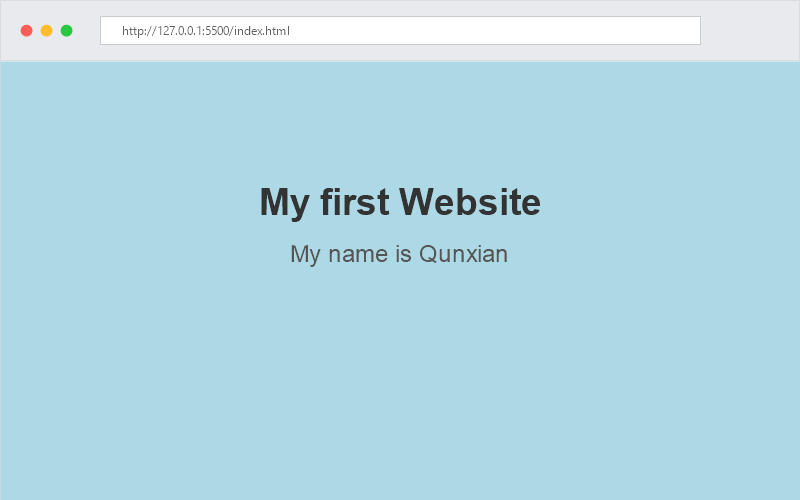
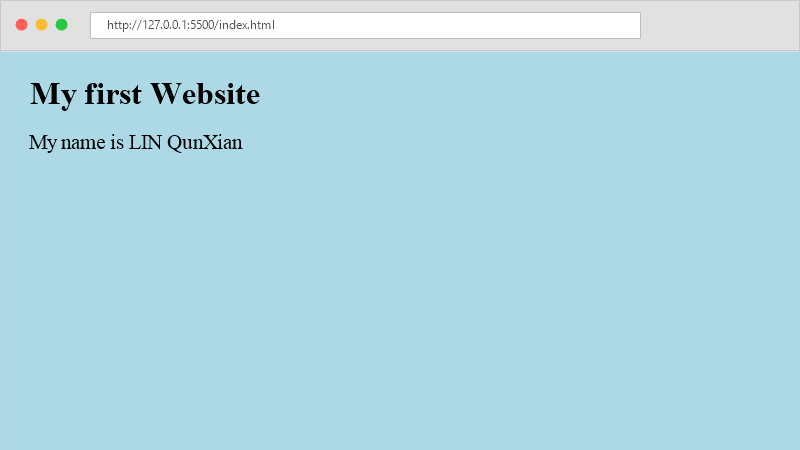
update styles and README

diff --git a/style.css b/style.css
@@ -1,16 +1,3 @@
 body {
     background-color: lightblue;
-    font-family: Arial, sans-serif;
-    text-align: center;
-    padding-top: 50px;
-}
-
-h1 {
-    color: #333333;
-    margin-bottom: 10px;
-}
-
-p {
-    color: #555555;
-    font-size: 18px;
 }

diff --git a/index.html b/index.html
@@ -8,6 +8,6 @@
 </head>
 <body>
     <h1>My first Website</h1>
-    <p>My name is Qunxian</p>
+    <p>My name is LIN QunXian</p>
 </body>
 </html>

diff --git a/README.md b/README.md
@@ -1,92 +1,45 @@
-# MyWebsite - 我的第一個個人網站
+# MyWebsite
 
-> 這是一個使用 HTML 與 CSS 建立的個人首頁專案，作為學習 Git 與 GitHub 版本控制的第一個實作成果。
+這是我在課堂上製作的第一個個人網頁，用來練習 HTML、CSS 以及 Git 和 GitHub 的版本控制。
 
----
-
-## 專案介紹 (Project Description)
-
+## 專案介紹
+說明：
 * **為什麼製作這個專案？**  
-  學習網頁前端基礎知識與 Git / GitHub 完整版本控制流程（包括檔案變更、暫存、提交、推送、版本回退以及撰寫專業的說明文件）。
-* **這個專案解決什麼問題？**  
-  提供一個結構清晰、輕量乾淨的個人首頁模板，並實踐以 GitHub 進行程式碼托管與版本管理的標準流程。
-* **主要目標：**  
-  熟悉現代軟體開發中必備的 Git 工作流，建立良好的開源專案維護習慣。
+  學習網頁製作基礎，並練習 Git 的基本操作（例如 git add, git commit, git push 等）。
+* **主要功能是什麼？**  
+  在網頁上顯示個人標題與姓名，並使用 CSS 設定背景顏色。
 
----
+## 功能
+* [x] 建立 index.html 網頁
+* [x] 顯示大標題「My first Website」
+* [x] 顯示我的名字「My name is LIN QunXian」
+* [x] 使用 style.css 設定淺藍色背景
+* [x] 使用 .gitignore 忽略不必要的檔案
 
-## 功能 (Features)
+## 使用技術
+* HTML
+* CSS
+* Git
+* GitHub
 
-* [x] **個人資訊展示**：清晰呈現網站主標題與作者名稱
-* [x] **簡約外觀樣式**：使用 CSS 設計清爽的淺藍色背景與現代字體
-* [x] **響應式基礎標籤**：配置 viewport meta 標籤以支援跨裝置瀏覽
-* [x] **完整 Git 版本控制**：包含多個清晰的 Commit 記錄
-* [x] **排除不必要檔案**：配置 `.gitignore` 忽略系統與環境檔案
-
----
-
-## 使用技術 (Technologies Used)
-
-* **HTML5**：網頁結構與語意化標籤
-* **CSS3**：版面美化、字體與背景樣式設計
-* **Git**：本機版本控制與版本歷史管理
-* **GitHub**：雲端遠端程式碼倉庫托管
-
----
-
-## 畫面展示 (Screenshots or Demo)
-
-### 網頁預覽
+## 畫面展示
+網頁畫面如下：
 
 ![Website Preview](images/home.png)
 
-* **GitHub 倉庫地址**：[https://github.com/qunxianlin/mywebsite](https://github.com/qunxianlin/mywebsite)
+* 倉庫網址：[https://github.com/qunxianlin/mywebsite](https://github.com/qunxianlin/mywebsite)
 
----
-
-## 使用方式 (How to Use)
-
-你可以透過以下步驟在本地端瀏覽與運行這個專案：
-
-### 1. 下載專案 (Clone)
-使用 `git clone` 指令將專案複製到本機：
-
+## 使用方式
+1. 下載專案：
 ```bash
 git clone https://github.com/qunxianlin/mywebsite.git
 ```
-
-### 2. 進入專案資料夾
+2. 進入資料夾：
 ```bash
 cd mywebsite
 ```
+3. 用瀏覽器打開 `index.html` 即可查看。
 
-### 3. 開啟網頁
-* **直接開啟**：在檔案總管中雙擊 `index.html` 即可在預設瀏覽器中開啟。
-* **使用 VS Code**：在 VS Code 中安裝擴充套件 `Live Server`，並點擊右下角的 **Go Live** 即時預覽。
-
----
-
-## 專案架構 (Project Structure)
-
-```text
-mywebsite/
-├── images/
-│   └── home.png         # 網站畫面預覽圖
-├── .gitignore           # Git 忽略清單
-├── index.html           # 網站主頁面 HTML
-├── style.css            # 網站樣式表 CSS
-└── README.md            # 專案說明文件
-```
-
----
-
-## 作者 (Author)
-
-* **作者**：Qunxian Lin (林群賢)
-* **GitHub**：[@qunxianlin](https://github.com/qunxianlin)
-
----
-
-## 授權條款 (License)
-
-本專案採用 [MIT License](https://opensource.org/licenses/MIT) 授權。
+## 作者
+* 林群賢 (Qunxian Lin)
+* GitHub: [qunxianlin](https://github.com/qunxianlin)
